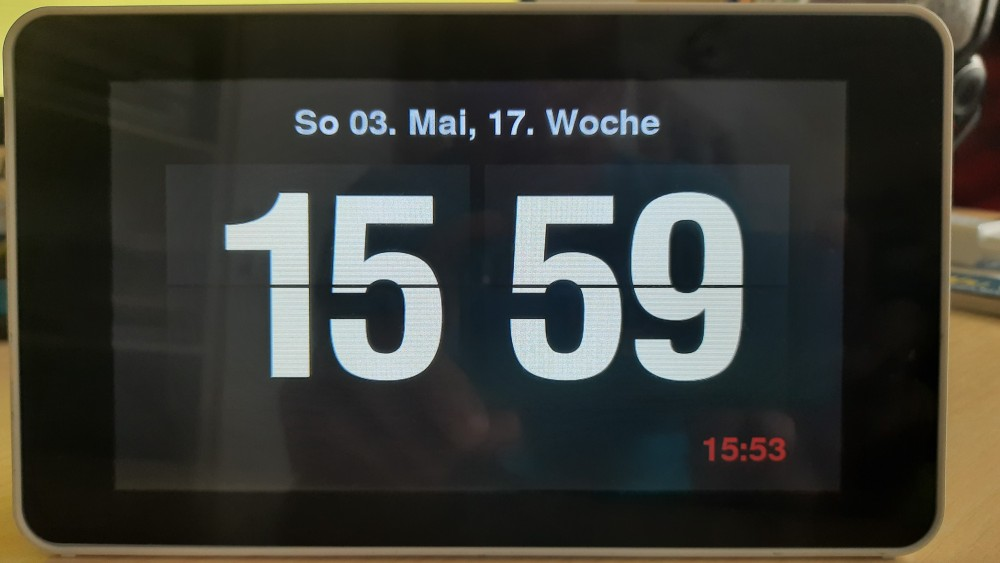
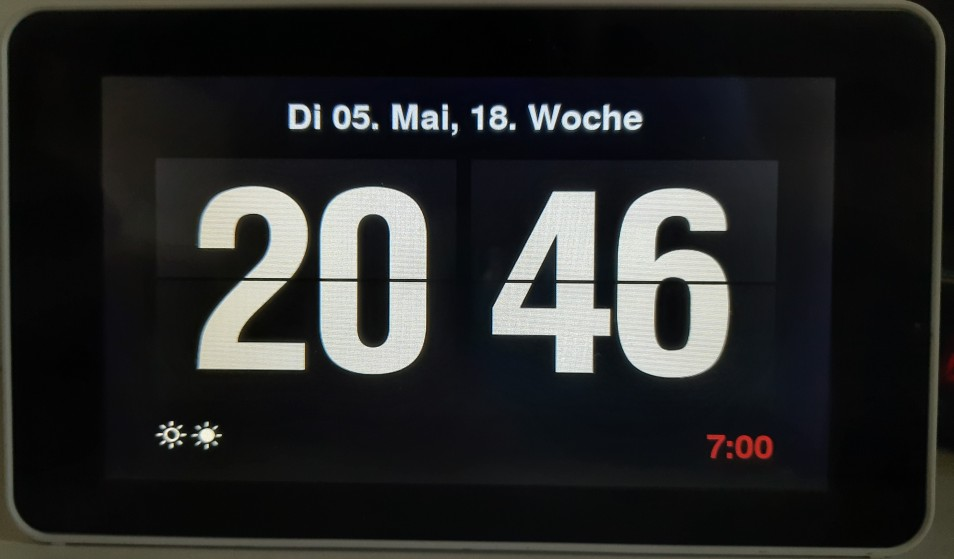
documentation update (brightness control)

diff --git a/README.md b/README.md
@@ -44,6 +44,7 @@ sudo apt-get update && sudo apt-get -y upgrade
 ./install.sh xsession
 ```
 * enable boot into graphical desktop with autologin via raspi-config
+* create sounds folder and put an alarm sound MP3 file into it
 
 ## Usage
 
@@ -75,6 +76,8 @@ The clock shows the time, date, current week and the alarm time as shown in the 
 
 The time numbers and the alarm time are touch UI active (can be clicked).
 Clicking the alarm time in the lower right corner switches to alarm time editing display.
+The two brightness icons in the lower left can be used to adjust the brightness. 
+During the night (22:00 - 7:00) the color of the time display will be dimmed as well from (255,255,255) = white to (96,96,96) = medium gray because even with dimmed display the digit display is too bright for my taste.
 
 ### Alarm Editing
 
